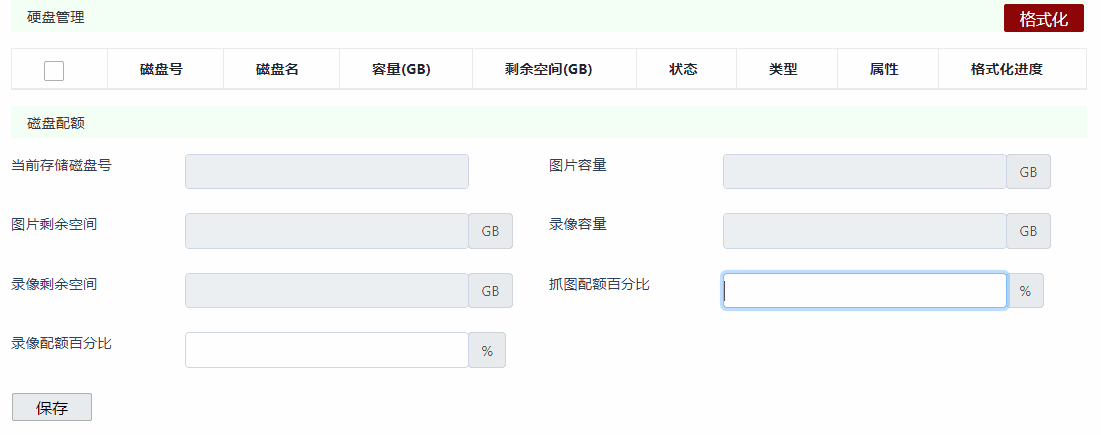
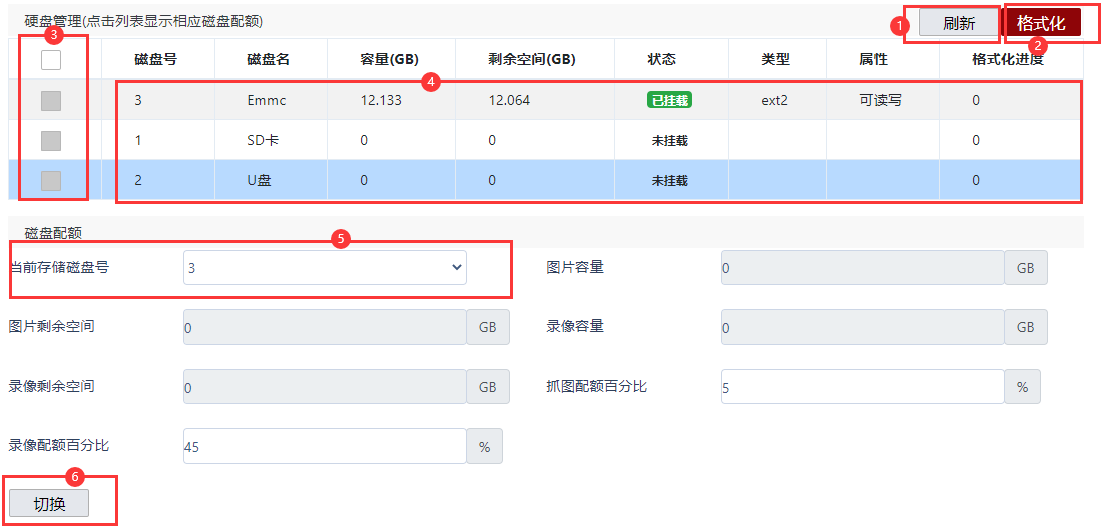
Dept3: Rockchip_Instructions_Linux_Web_Configuration V1.3.0
1. add introduce about face/isp/storage

diff --git a/Dept3/Linux/ApplicationNote/Rockchip_Instructions_Linux_Web_Configuration/Rockchip_Instructions_Linux_Web_Configuration_CN.md b/Dept3/Linux/ApplicationNote/Rockchip_Instructions_Linux_Web_Configuration/Rockchip_Instructions_Linux_Web_Configuration_CN.md
@@ -2,17 +2,15 @@
 
 文件标识：RK-SM-YF-357
 
-发布版本：V1.2.0
+发布版本：V1.3.0
 
-日期：2020-06-04
+日期：2020-07-14
 
 文件密级：□绝密   □秘密   □内部资料   ■公开
 
----
-
 **免责声明**
 
-本文档按“现状”提供，福州瑞芯微电子股份有限公司（“本公司”，下同）不对本文档的任何陈述、信息和内容的准确性、可靠性、完整性、适销性、特定目的性和非侵权性提供任何明示或暗示的声明或保证。本文档仅作为使用指导的参考。
+本文档按“现状”提供，瑞芯微电子股份有限公司（“本公司”，下同）不对本文档的任何陈述、信息和内容的准确性、可靠性、完整性、适销性、特定目的性和非侵权性提供任何明示或暗示的声明或保证。本文档仅作为使用指导的参考。
 
 由于产品版本升级或其他原因，本文档将可能在未经任何通知的情况下，不定期进行更新或修改。
 
@@ -22,13 +20,13 @@
 
 本文档可能提及的其他所有注册商标或商标，由其各自拥有者所有。
 
-**版权所有** **© 2020** **福州瑞芯微电子股份有限公司**
+**版权所有** **© 2020** **瑞芯微电子股份有限公司**
 
 超越合理使用范畴，非经本公司书面许可，任何单位和个人不得擅自摘抄、复制本文档内容的部分或全部，并不得以任何形式传播。
 
-福州瑞芯微电子股份有限公司
+瑞芯微电子股份有限公司
 
-Fuzhou Rockchip Electronics Co., Ltd.
+Rockchip Electronics Co., Ltd.
 
 地址：     福建省福州市铜盘路软件园A区18号
 
@@ -59,6 +57,7 @@ Fuzhou Rockchip Electronics Co., Ltd.
 本文档（本指南）主要适用于以下工程师：
 
 技术支持工程师
+
 软件开发工程师
 
 **修订记录**
@@ -68,6 +67,7 @@ Fuzhou Rockchip Electronics Co., Ltd.
 | V1.0.0 | 陈茂森 | 2020-04-29 | 初始版本     |
 | V1.1.0 | 陈茂森 | 2020-05-19 | 添加功能说明，用户管理及人脸数据导出说明 |
 | V1.2.0 | 陈茂森 | 2020-06-04 | 增加预览界面录像，智能分析人脸识别开关 |
+| V1.3.0 | 陈茂森 | 2020-07-14 | 增加isp详细说明，人脸识别功能说明，存储详细说明。 |
 
 ---
 
@@ -79,27 +79,25 @@ Fuzhou Rockchip Electronics Co., Ltd.
 
 ## 功能说明
 
-| **功能\芯片名称**  | **RK1806** | **RV1109** |
-| ------------------ | :--------- | ---------- |
-| 1 用户登录         | √          | √          |
-| 3 预览功能         | ×          | √          |
-| 4 回放功能         | ×          | √          |
-| 5 人脸识别管理功能 | √          | √          |
-| 6.1 系统设置       | √          | √          |
-| 6.2 网络设置       | √          | √          |
-| 6.3 视频设置       | ×          | √          |
-| 6.4 音频设置       | ×          | √          |
-| 6.5 图像设置       | ×          | √          |
-| 6.6 事件管理       | ×          | √          |
-| 6.7.1 计划配置     | ×          | √          |
-| 6.7.2 存储管理     | √          | √          |
-| 6.8 智能分析       | ×          | √          |
-
----
+| **功能\芯片名称** | **RK1806** | **RV1109** |
+| ----------------- | :--------- | ---------- |
+| 用户登录          | √          | √          |
+| 预览功能          | ×          | √          |
+| 回放功能          | ×          | √          |
+| 人脸识别管理功能  | √          | √          |
+| 系统设置          | √          | √          |
+| 网络设置          | √          | √          |
+| 视频设置          | ×          | √          |
+| 音频设置          | ×          | √          |
+| 图像设置          | ×          | √          |
+| 事件管理          | ×          | √          |
+| 计划配置          | ×          | √          |
+| 存储管理          | √          | √          |
+| 智能分析          | ×          | √          |
 
 ## 用户登录
 
-![login](resources/login_cn.png)
+<img src="resources/login_cn.png" alt="login" style="zoom:67%;" />
 
 登录地址：相机IP地址 + /login。
 
@@ -125,13 +123,13 @@ Fuzhou Rockchip Electronics Co., Ltd.
 
 ![main-interface](resources/main-interface_cn.png)
 
-①预览：预览网络摄像机监控画面，并对部分摄像机参数进行设置，详见3 预览界面。
+①预览：预览网络摄像机监控画面，并对部分摄像机参数进行设置，详见4 预览界面。
 
-②回放：查看录像回放，以及抓图存档，详见4 回放。
+②回放：查看录像回放，以及抓图存档，详见5 回放。
 
-③人脸识别管理：人脸识别的黑/白名单，抓拍和控制记录管理以及人脸识别参数配置，详见5 人脸识别管理。
+③人脸识别管理：人脸识别的黑/白名单，抓拍和控制记录管理以及人脸识别参数配置，详见6 人脸识别管理。
 
-④配置：进行网络摄像机的功能配置，详见6  配置。
+④配置：进行网络摄像机的功能配置，详见7  配置。
 
 ⑤关于：查看版权信息。
 
@@ -169,6 +167,8 @@ Fuzhou Rockchip Electronics Co., Ltd.
 
 ③下载：对选中的录像进行下载。
 
+④删除：删除选中的录像。
+
 ### 截图
 
 查看所有的抓图记录。
@@ -179,6 +179,8 @@ Fuzhou Rockchip Electronics Co., Ltd.
 
 ②下载：对选中的截图进行下载。
 
+③删除：删除选中的抓图记录
+
 ## 人脸识别管理
 
 ### 人员清单
@@ -187,21 +189,17 @@ Fuzhou Rockchip Electronics Co., Ltd.
 
 ![face-member-list](resources/face-member-list_cn.png)
 
-①查询：条件查询已添加的人员信息。
+①查询：条件查询已添加的人员信息，现支持条件查询以及人名查询。
 
-②添加：单个添加人员信息，界面如下。
-
-照片上传：双击预览区或点击选择文件上传照片。
+②添加：单个添加人员信息。
 
 照片规格要求：格式为jpg，大小小于1MB。
 
-说明：证件类型暂时仅支持身份证，除生日与类型必填外，其他信息未填时，将使用系统默认信息。
-
-![face-add-member](resources/face-add-member_cn.png)
+除必填信息外，其他信息未填时，将使用系统默认信息。
 
 ③导出excel：将所有满足查询条件的数据整合excel导出（不含图片）。
 
-④批量删除：批量删除选中信息。
+④批量删除：批量删除选中信息，删除人员同时将会删除该人员相关的控制记录。
 
 ⑤编辑：双击查询结果所在行，弹出菜单，可对选中行信息进修改/删除。
 
@@ -213,25 +211,39 @@ Fuzhou Rockchip Electronics Co., Ltd.
 
 失败：设备处理图像失败，此照片不可用于人脸识别。
 
+重复注册：已有相同特征的照片被注册。
+
 ### 批量导入
 
 ![face-batch-input](resources/face-batch-input_cn.png)
 
-①批量导入：点击弹出导入菜单，进行批量导入
+①刷新：刷新导入数据。
 
-②导入菜单：可选择黑名单或白名单进行批量导入。
+②批量导入：点击弹出导入菜单，进行批量导入
+
+③导入菜单：可选择黑名单或白名单进行批量导入。
 
 照片要求：单个照片大小不超过1MB，格式必须为jpg。
 
-特殊说明：批量导入可能存在照片辨识度低，无法作为人脸识别照片的情况，具体情况见5.1人员清单 特征值。
+特殊说明：批量导入可能存在照片辨识度低，无法作为人脸识别照片的情况，具体情况见6.1人员清单 特征值。
+
+④非法信息查看：点击查看照片不合格的原因。
 
 ### 其他功能
 
-抓拍记录：查询网络摄像机抓拍的结果。
+抓拍记录：查询网络摄像机抓拍的结果，在删除模式下可进行记录删除，仅闸机类产品支持，IPC类产品暂不支持。
 
-控制记录：查询已登记人员的识别记录。
+控制记录：查询已登记人员的识别记录，在删除模式下可进行记录删除，IPC类产品暂不支持控制记录的现场头像功能。
 
-参数配置：配置人脸识别特征参数。
+参数配置：配置人脸识别特征参数，功能暂未实现。
+
+### 人脸检测功能使用
+
+1.在使用人脸检测功能前，需在智能分析/叠加与抓图中开启人脸识别功能，详见7.8.1。
+
+2.使用人员清单界面的添加人员或批量导入功能进行人脸注册。
+
+3.当注册人员被相机拍摄并识别时，将会将相似度信息写入控制记录，可在控制记录中进行查询。
 
 ## 配置
 
@@ -289,9 +301,7 @@ Fuzhou Rockchip Electronics Co., Ltd.
 
 系统用户管理。
 
-①用户列表：展示当前所有注册用户。
-
-②功能菜单：
+①功能菜单：
 
 刷新：刷新用户列表。
 
@@ -302,6 +312,8 @@ Fuzhou Rockchip Electronics Co., Ltd.
 删除：选中用户列表中的用户，点击删除，删除选中用户。注：管理员不可删除。
 
 特殊说明：除管理用户外，其他用户分级功能暂未实现。
+
+②用户列表：展示当前所有注册用户。
 
 #### 安全管理
 
@@ -411,8 +423,6 @@ I帧间隔：两个关键帧间的间隔。
 
 ②设置：选择需设置的码流，区域编号，以及提升等级。
 
----
-
 #### 区域裁剪
 
 <img src="resources/crop_cn.png" alt="crop"  />
@@ -427,9 +437,7 @@ I帧间隔：两个关键帧间的间隔。
 
 <img src="resources/audio_cn.png" alt="audio" style="zoom: 67%;" />
 
-目前默认编码为MP2L2，仅支持输入音量调整，其他功能暂未实现。
-
----
+目前默认编码为MP2，仅支持输入音量调整，其他功能暂未实现。
 
 ### 图像
 
@@ -437,21 +445,39 @@ I帧间隔：两个关键帧间的间隔。
 
 ![isp](resources/isp_cn.png)
 
-①场景：切换网络摄像机场景模式。
+①场景：切换网络摄像机场景模式，该功能暂未实现。
 
 ②图像调节：设置视频亮度、对比度、饱和度、锐度。
 
-③曝光：设置光圈以及曝光增益。
+③曝光：目前仅支持曝光时间以及增益调节。
 
-④日夜转换：根据时间调整曝光。
+④日夜转换：支持日夜转换模式，过滤时间，补光灯模式的调节。灵敏度调节暂未实现。
 
-⑤背光：背光补偿设置，高动态设置，宽动态设置。其中高动态开关时需要重启设备。
+日夜转换模式：“白天”模式下，图像为彩色，“夜晚”模式下图像为黑白。
 
-⑥白平衡：设置白平衡模式。
+过滤时间：从 5 s 到 120 s 可调，当环境照度满足转换要求且保持的时间超过时间阈值后才会进行日夜的切换。
 
-⑦图像增强：设置数字降噪、透雾模式、电子防抖、灰度范围、鱼眼矫正。
+灵敏度：对应的夜晚模式到白天模式转换阈值。灵敏度越高，越容易切换到白天模式， 越难切换到夜晚模式；灵敏度越低，越容易切换到夜晚模式，越难切换到白天模式。
 
-⑧视频调整：视频镜像，制式等设置。
+⑥白平衡：设置白平衡模式，支持“手动白平衡”、“自动白平衡”、“锁定白平衡”、“日光灯”、“白炽灯”、“暖光灯”和“自然光”。
+
+手动白平衡：该模式下支持 R、B 增益调整。
+
+锁定白平衡：该模式下将锁定当前色彩校正矩阵。
+
+如果实际使用场景为固定灯光类型，可根据实际选择后四种选项。
+
+⑦图像增强：设置数字降噪、透雾模式、灰度范围、鱼眼矫正。
+
+数字降噪：减少图像噪点。普通模式下，通过降噪等级进行调整。在专家模式下可设置时域与空域降噪。
+
+透雾模式：可选择“开启”和“关闭”，开启该功能后可以一定程度上提升水雾天气视频画面中的物体可辨识程度。
+
+灰度范围：可选择“[0-255]”和“[16-235]”，用户可根据实际需要来选择视频编码的灰度范围。
+
+鱼眼矫正：可选择“开启”和“关闭”，开启该功能后可以一定程度上减小画面边缘的畸变。
+
+⑧视频调整：目前仅支持制式设置。
 
 #### OSD设置
 
@@ -539,11 +565,11 @@ I帧间隔：两个关键帧间的间隔。
 
 ##### 布防时间
 
-同6.6.1.2 布防时间。
+同7.6.1.2 布防时间。
 
 ##### 联动方式
 
-同6.6.1.3 联动方式。
+同7.6.1.3 联动方式。
 
 #### 其他功能
 
@@ -573,13 +599,11 @@ I帧间隔：两个关键帧间的间隔。
 
 ⑤计划图例：不同类型计划图例。
 
-其他功能同6.6.1.2 布防时间。
+其他功能同7.6.1.2 布防时间。
 
 ##### 抓图计划
 
-开关于6.7.1.3抓图参数中设置，其余功能同6.7.1.1录像计划。
-
----
+开关于7.7.1.3抓图参数中设置，其余功能同7.7.1.1录像计划。
 
 ##### 抓图参数
 
@@ -595,7 +619,19 @@ I帧间隔：两个关键帧间的间隔。
 
 <img src="resources/storage-hard_cn.png" alt="storage-hard" style="zoom: 67%;" />
 
-设置录像以及抓图功能的磁盘配额，建议格式化后再进行设置。
+设置录像以及抓图功能的磁盘配额。
+
+①刷新：刷新磁盘信息。
+
+②格式化：格式化③中选中的磁盘，eMMC不支持格式化。
+
+③格式化选择：选择需要格式化的磁盘，当无可选磁盘时该功能将无法使用。
+
+④磁盘信息：单击此盘信息行，可展示不同磁盘的磁盘配额，功能同⑤。
+
+⑤磁盘号：选择不同磁盘号，将会显示不同磁盘的磁盘配额。
+
+⑥切换：切换存储磁盘为所选磁盘配额中显示的磁盘。
 
 ##### 网络硬盘
 
@@ -605,17 +641,17 @@ I帧间隔：两个关键帧间的间隔。
 
 该功能暂未实现。
 
----
-
 ### 智能分析
 
 #### 叠加和抓图
 
-![smart-snap-overlay](resources/smart-snap-overlay.png)
+![smart-snap-overlay](resources/smart-snap-overlay_cn.png)
 
-目前仅支持人脸识别，码流叠加，抓图叠加的开关。
+目前仅支持人脸检测，人脸识别，码流叠加，抓图叠加的开关。
 
-说明：当人脸识别关闭后，码流叠加，抓图叠加将同步被关闭，并隐藏。
+说明：当人脸检测关闭后，人脸识别关，码流叠加，抓图叠加将同步被关闭，并隐藏。
+
+仅当人脸识别启用时可进行人脸识别注册。
 
 #### 屏蔽区域
 
